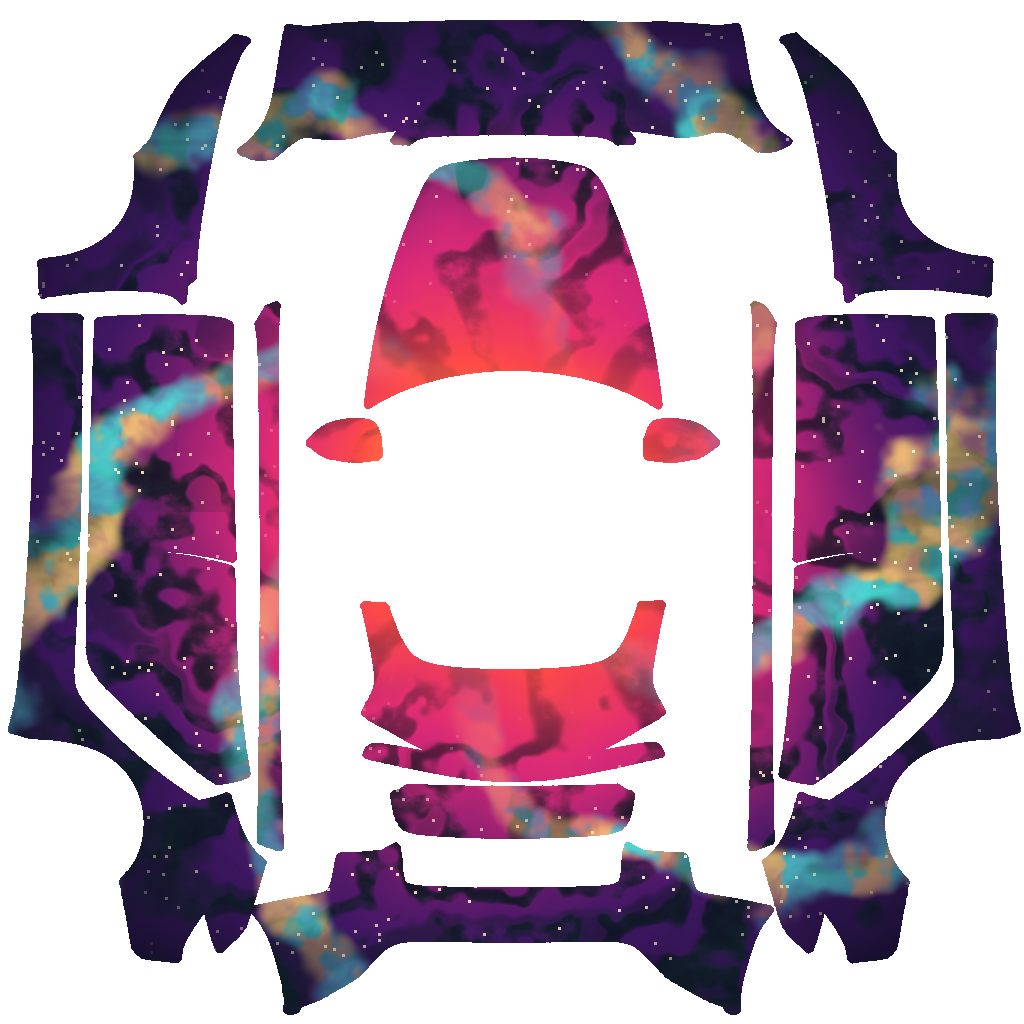
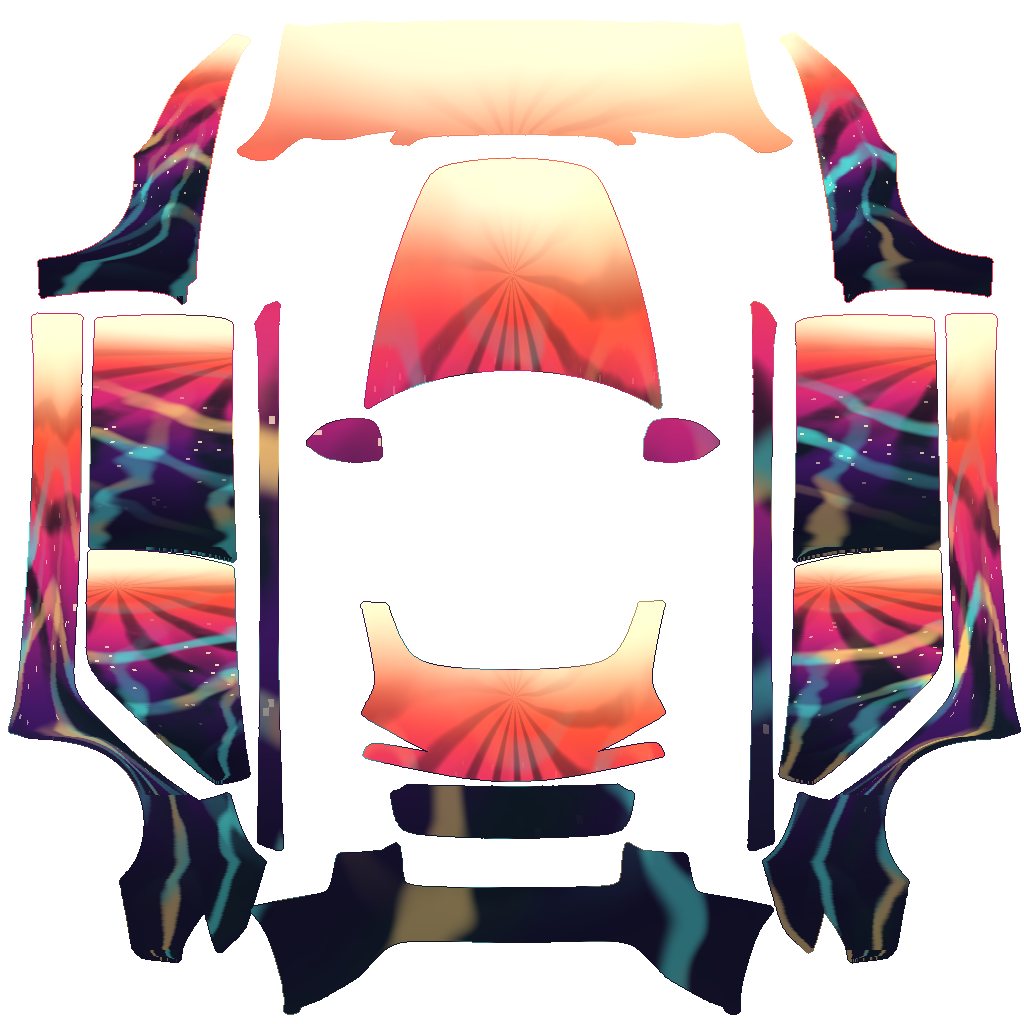
Rebuild la-dusk with continuous side UV flow

diff --git a/skins/2026-09-04/README.md b/skins/2026-09-04/README.md
@@ -1,7 +1,7 @@
 # Skins — 2026-09-04
 
 **Slug:** `la-dusk`
-**Brief:** Los Angeles dusk impression: coral-magenta sun disk on the roof bleeding into indigo night toward the rockers, with soft palm-frond silhouettes and thin freeway light ribbons drifting downhill — regenerated, no logos.
+**Brief:** Los Angeles dusk: coral-magenta sunburst bleeding into indigo night toward the rockers, with continuous freeway ribbons and palm silhouettes that cross door seams (continuous side UV rebuild).
 
 CITY series — Los Angeles (next after NYC). One invented wrap applied to every official Tesla custom-wrap vehicle.
 
@@ -9,16 +9,17 @@ CITY series — Los Angeles (next after NYC). One invented wrap applied to every
 
 | Folder | Pixels | File size |
 |---|---|---|
-| `cybertruck` | 1024×768 | 499.0 KB |
-| `model3-2024-base` | 1024×1024 | 518.5 KB |
-| `model3-2024-performance` | 1024×1024 | 515.9 KB |
-| `model3` | 1024×1024 | 472.5 KB |
-| `models-2021` | 1024×1024 | 436.1 KB |
-| `models-2025-plaid` | 1024×1024 | 420.8 KB |
-| `modelx-2021` | 1024×1024 | 336.7 KB |
-| `modely-2025-base` | 1024×1024 | 378.8 KB |
-| `modely-2025-performance` | 1024×1024 | 439.5 KB |
-| `modely-2025-premium` | 1024×1024 | 426.4 KB |
-| `modely-l` | 1024×1024 | 482.5 KB |
-| `modely` | 1024×1024 | 526.4 KB |
+| `cybertruck` | 1024×768 | 318.6 KB |
+| `model3` | 1024×1024 | 436.9 KB |
+| `model3-2024-base` | 1024×1024 | 461.1 KB |
+| `model3-2024-performance` | 1024×1024 | 463.2 KB |
+| `modely` | 1024×1024 | 437.1 KB |
+| `modely-2025-base` | 1024×1024 | 329.8 KB |
+| `modely-2025-premium` | 1024×1024 | 363.6 KB |
+| `modely-2025-performance` | 1024×1024 | 368.4 KB |
+| `modely-l` | 1024×1024 | 406.5 KB |
+| `models-2021` | 1024×1024 | 375.4 KB |
+| `models-2025-plaid` | 1024×1024 | 371.0 KB |
+| `modelx-2021` | 1024×1024 | 301.4 KB |
+
 

diff --git a/skins/2026-09-04/cybertruck/README.md b/skins/2026-09-04/cybertruck/README.md
@@ -1,10 +1,10 @@
 # Cybertruck — la-dusk
 
 - **Slug:** `la-dusk`
-- **Brief:** Los Angeles dusk impression: coral-magenta sun disk on the roof bleeding into indigo night toward the rockers, with soft palm-frond silhouettes and thin freeway light ribbons drifting downhill — regenerated, no logos.
+- **Brief:** Los Angeles dusk: coral-magenta sunburst bleeding into indigo night toward the rockers, with continuous freeway ribbons and palm silhouettes that cross door seams (continuous side UV rebuild).
 - **Official folder:** `cybertruck`
 - **Pixel size:** 1024×768
-- **File size:** 499.0 KB
+- **File size:** 318.6 KB
 - **File:** `la-dusk.png`
 
 **Size note:** official template is 1024×768 (non-square). Both edges are within 512–1024; export matches the official pixels.

diff --git a/skins/2026-09-04/model3-2024-base/README.md b/skins/2026-09-04/model3-2024-base/README.md
@@ -1,10 +1,10 @@
 # Model 3 (2024+) Standard & Premium — la-dusk
 
 - **Slug:** `la-dusk`
-- **Brief:** Los Angeles dusk impression: coral-magenta sun disk on the roof bleeding into indigo night toward the rockers, with soft palm-frond silhouettes and thin freeway light ribbons drifting downhill — regenerated, no logos.
+- **Brief:** Los Angeles dusk: coral-magenta sunburst bleeding into indigo night toward the rockers, with continuous freeway ribbons and palm silhouettes that cross door seams (continuous side UV rebuild).
 - **Official folder:** `model3-2024-base`
 - **Pixel size:** 1024×1024
-- **File size:** 518.5 KB
+- **File size:** 461.1 KB
 - **File:** `la-dusk.png`
 
 ## Tesla upload steps

diff --git a/skins/2026-09-04/model3-2024-performance/README.md b/skins/2026-09-04/model3-2024-performance/README.md
@@ -1,10 +1,10 @@
 # Model 3 (2024+) Performance — la-dusk
 
 - **Slug:** `la-dusk`
-- **Brief:** Los Angeles dusk impression: coral-magenta sun disk on the roof bleeding into indigo night toward the rockers, with soft palm-frond silhouettes and thin freeway light ribbons drifting downhill — regenerated, no logos.
+- **Brief:** Los Angeles dusk: coral-magenta sunburst bleeding into indigo night toward the rockers, with continuous freeway ribbons and palm silhouettes that cross door seams (continuous side UV rebuild).
 - **Official folder:** `model3-2024-performance`
 - **Pixel size:** 1024×1024
-- **File size:** 515.9 KB
+- **File size:** 463.2 KB
 - **File:** `la-dusk.png`
 
 ## Tesla upload steps

diff --git a/skins/2026-09-04/modely-2025-performance/README.md b/skins/2026-09-04/modely-2025-performance/README.md
@@ -1,10 +1,10 @@
 # Model Y (2025+) Performance — la-dusk
 
 - **Slug:** `la-dusk`
-- **Brief:** Los Angeles dusk impression: coral-magenta sun disk on the roof bleeding into indigo night toward the rockers, with soft palm-frond silhouettes and thin freeway light ribbons drifting downhill — regenerated, no logos.
+- **Brief:** Los Angeles dusk: coral-magenta sunburst bleeding into indigo night toward the rockers, with continuous freeway ribbons and palm silhouettes that cross door seams (continuous side UV rebuild).
 - **Official folder:** `modely-2025-performance`
 - **Pixel size:** 1024×1024
-- **File size:** 439.5 KB
+- **File size:** 368.4 KB
 - **File:** `la-dusk.png`
 
 ## Tesla upload steps

diff --git a/skins/2026-09-04/modely-2025-premium/README.md b/skins/2026-09-04/modely-2025-premium/README.md
@@ -1,10 +1,10 @@
 # Model Y (2025+) Premium — la-dusk
 
 - **Slug:** `la-dusk`
-- **Brief:** Los Angeles dusk impression: coral-magenta sun disk on the roof bleeding into indigo night toward the rockers, with soft palm-frond silhouettes and thin freeway light ribbons drifting downhill — regenerated, no logos.
+- **Brief:** Los Angeles dusk: coral-magenta sunburst bleeding into indigo night toward the rockers, with continuous freeway ribbons and palm silhouettes that cross door seams (continuous side UV rebuild).
 - **Official folder:** `modely-2025-premium`
 - **Pixel size:** 1024×1024
-- **File size:** 426.4 KB
+- **File size:** 363.6 KB
 - **File:** `la-dusk.png`
 
 ## Tesla upload steps

diff --git a/skins/2026-09-04/modely-2025-base/README.md b/skins/2026-09-04/modely-2025-base/README.md
@@ -1,10 +1,10 @@
 # Model Y (2025+) Standard — la-dusk
 
 - **Slug:** `la-dusk`
-- **Brief:** Los Angeles dusk impression: coral-magenta sun disk on the roof bleeding into indigo night toward the rockers, with soft palm-frond silhouettes and thin freeway light ribbons drifting downhill — regenerated, no logos.
+- **Brief:** Los Angeles dusk: coral-magenta sunburst bleeding into indigo night toward the rockers, with continuous freeway ribbons and palm silhouettes that cross door seams (continuous side UV rebuild).
 - **Official folder:** `modely-2025-base`
 - **Pixel size:** 1024×1024
-- **File size:** 378.8 KB
+- **File size:** 329.8 KB
 - **File:** `la-dusk.png`
 
 ## Tesla upload steps

diff --git a/skins/2026-09-04/models-2025-plaid/README.md b/skins/2026-09-04/models-2025-plaid/README.md
@@ -1,10 +1,10 @@
 # Model S (2025+) Plaid — la-dusk
 
 - **Slug:** `la-dusk`
-- **Brief:** Los Angeles dusk impression: coral-magenta sun disk on the roof bleeding into indigo night toward the rockers, with soft palm-frond silhouettes and thin freeway light ribbons drifting downhill — regenerated, no logos.
+- **Brief:** Los Angeles dusk: coral-magenta sunburst bleeding into indigo night toward the rockers, with continuous freeway ribbons and palm silhouettes that cross door seams (continuous side UV rebuild).
 - **Official folder:** `models-2025-plaid`
 - **Pixel size:** 1024×1024
-- **File size:** 420.8 KB
+- **File size:** 371.0 KB
 - **File:** `la-dusk.png`
 
 ## Tesla upload steps

diff --git a/skins/2026-09-04/models-2021/README.md b/skins/2026-09-04/models-2021/README.md
@@ -1,10 +1,10 @@
 # Model S (2021+) — la-dusk
 
 - **Slug:** `la-dusk`
-- **Brief:** Los Angeles dusk impression: coral-magenta sun disk on the roof bleeding into indigo night toward the rockers, with soft palm-frond silhouettes and thin freeway light ribbons drifting downhill — regenerated, no logos.
+- **Brief:** Los Angeles dusk: coral-magenta sunburst bleeding into indigo night toward the rockers, with continuous freeway ribbons and palm silhouettes that cross door seams (continuous side UV rebuild).
 - **Official folder:** `models-2021`
 - **Pixel size:** 1024×1024
-- **File size:** 436.1 KB
+- **File size:** 375.4 KB
 - **File:** `la-dusk.png`
 
 ## Tesla upload steps

diff --git a/skins/2026-09-04/modelx-2021/README.md b/skins/2026-09-04/modelx-2021/README.md
@@ -1,10 +1,10 @@
 # Model X (2021+) — la-dusk
 
 - **Slug:** `la-dusk`
-- **Brief:** Los Angeles dusk impression: coral-magenta sun disk on the roof bleeding into indigo night toward the rockers, with soft palm-frond silhouettes and thin freeway light ribbons drifting downhill — regenerated, no logos.
+- **Brief:** Los Angeles dusk: coral-magenta sunburst bleeding into indigo night toward the rockers, with continuous freeway ribbons and palm silhouettes that cross door seams (continuous side UV rebuild).
 - **Official folder:** `modelx-2021`
 - **Pixel size:** 1024×1024
-- **File size:** 336.7 KB
+- **File size:** 301.4 KB
 - **File:** `la-dusk.png`
 
 ## Tesla upload steps

diff --git a/skins/2026-09-04/modely-l/README.md b/skins/2026-09-04/modely-l/README.md
@@ -1,10 +1,10 @@
 # Model Y L — la-dusk
 
 - **Slug:** `la-dusk`
-- **Brief:** Los Angeles dusk impression: coral-magenta sun disk on the roof bleeding into indigo night toward the rockers, with soft palm-frond silhouettes and thin freeway light ribbons drifting downhill — regenerated, no logos.
+- **Brief:** Los Angeles dusk: coral-magenta sunburst bleeding into indigo night toward the rockers, with continuous freeway ribbons and palm silhouettes that cross door seams (continuous side UV rebuild).
 - **Official folder:** `modely-l`
 - **Pixel size:** 1024×1024
-- **File size:** 482.5 KB
+- **File size:** 406.5 KB
 - **File:** `la-dusk.png`
 
 ## Tesla upload steps

diff --git a/skins/2026-09-04/model3/README.md b/skins/2026-09-04/model3/README.md
@@ -1,10 +1,10 @@
 # Model 3 — la-dusk
 
 - **Slug:** `la-dusk`
-- **Brief:** Los Angeles dusk impression: coral-magenta sun disk on the roof bleeding into indigo night toward the rockers, with soft palm-frond silhouettes and thin freeway light ribbons drifting downhill — regenerated, no logos.
+- **Brief:** Los Angeles dusk: coral-magenta sunburst bleeding into indigo night toward the rockers, with continuous freeway ribbons and palm silhouettes that cross door seams (continuous side UV rebuild).
 - **Official folder:** `model3`
 - **Pixel size:** 1024×1024
-- **File size:** 472.5 KB
+- **File size:** 436.9 KB
 - **File:** `la-dusk.png`
 
 ## Tesla upload steps
